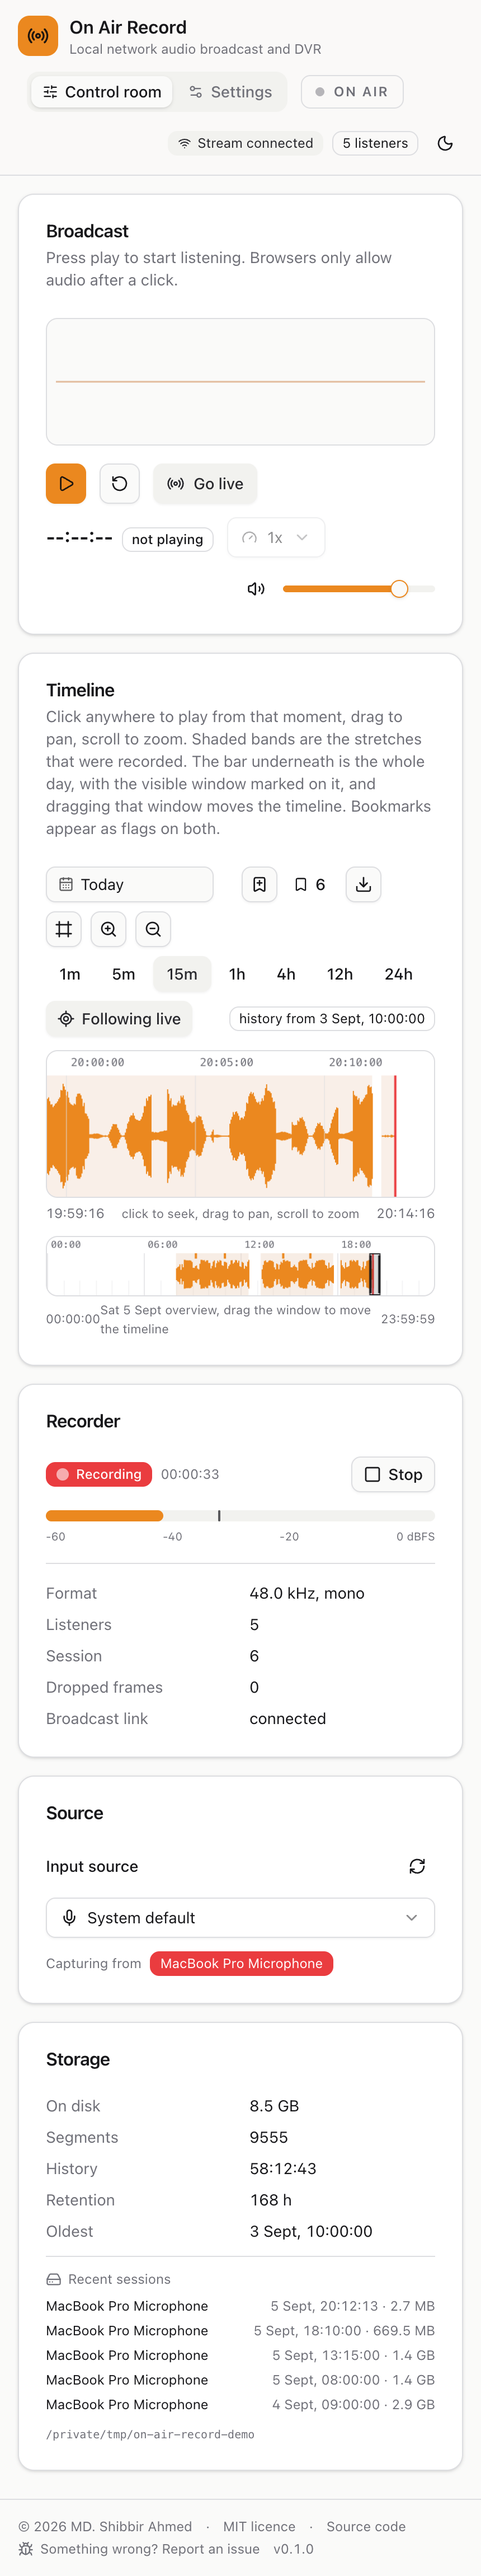
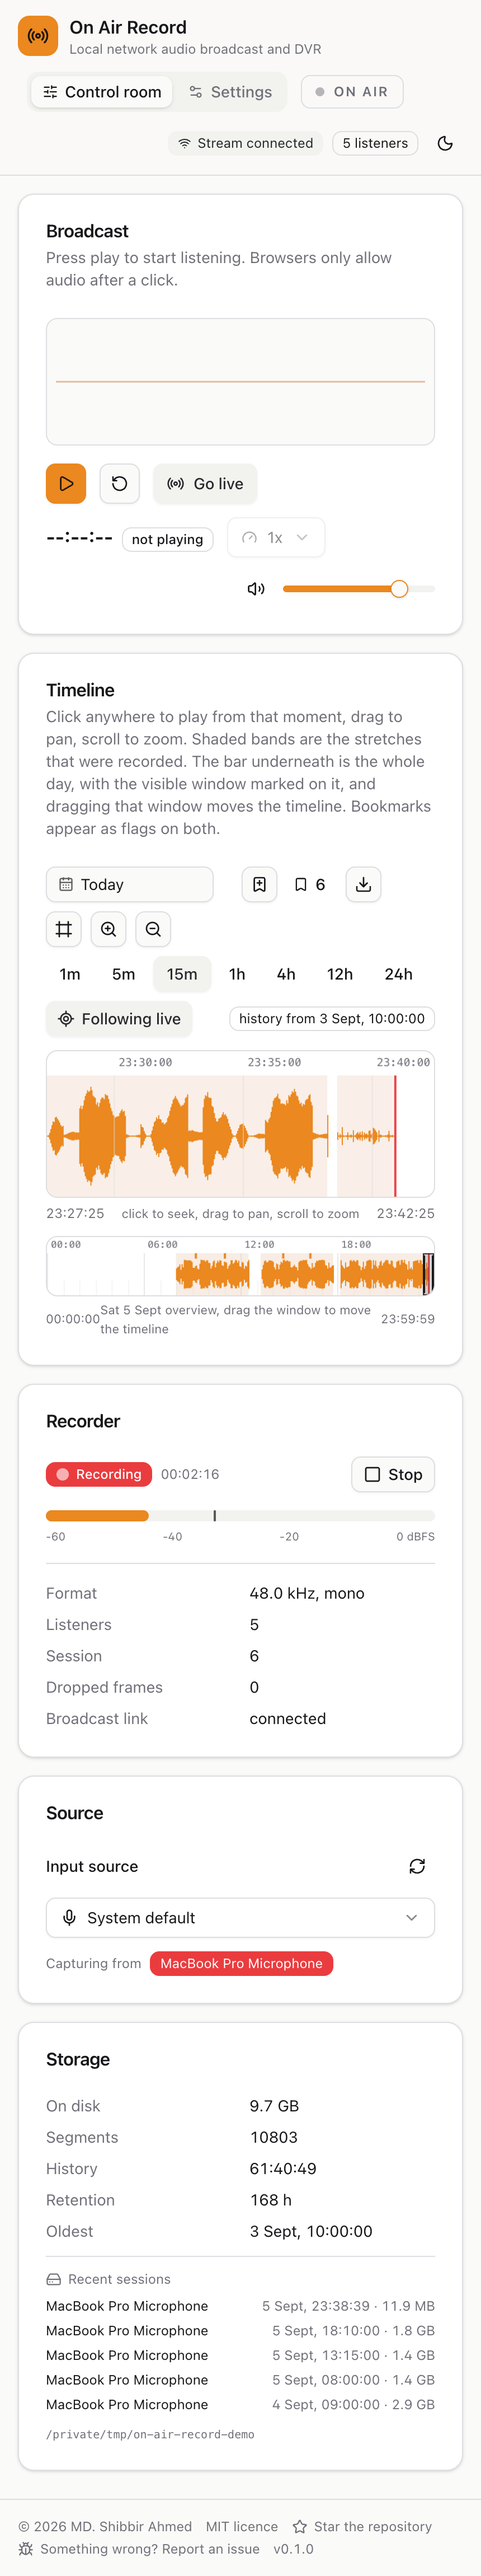
feat:[OAR-55] ask for a star in the footer instead of labelling the link source code
Same destination, better use of the space. "Source code" describes where the link goes; "Star the
repository" asks for the one thing a visitor can usefully do when they get there. A star icon carries it.

While recapturing the screenshots the longer line showed up a wrapping fault that was already there: the
middot separators are only meaningful while the row is on one line, and once it wraps on a phone one of
them dangles at the end of a line pointing at nothing. They are hidden below the sm breakpoint now, which
takes the phone footer from three ragged lines to two clean ones.

The five screenshots that show the footer were recaptured against a running instance, and the user guide's
description and alt text follow the new wording.

Changed region(s): [[0.0907, 0.404, 0.907, 0.5282], [0.514, 0.8079, 0.5442, 0.839], [0.3023, 0.5593, 0.3326, 0.5904]]

diff --git a/frontend/src/components/AppFooter.tsx b/frontend/src/components/AppFooter.tsx
@@ -5,7 +5,7 @@
  * bug report, and this is the page the reporter already has open.
  */
 
-import { Bug } from 'lucide-react';
+import { Bug, Star } from 'lucide-react';
 import { useEffect } from 'react';
 
 import { useStatusStore } from '@/store/useStatusStore';
@@ -40,12 +40,19 @@ export function AppFooter() {
           </a>
         </span>
 
-        <span aria-hidden="true">&middot;</span>
+        <span aria-hidden="true" className="hidden sm:inline">&middot;</span>
         <span>MIT licence</span>
 
-        <span aria-hidden="true">&middot;</span>
-        <a href={REPOSITORY_URL} target="_blank" rel="noreferrer noopener" className={LINK}>
-          Source code
+        <span aria-hidden="true" className="hidden sm:inline">&middot;</span>
+        {/* Still the repository link, but asking for the thing worth asking for. */}
+        <a
+          href={REPOSITORY_URL}
+          target="_blank"
+          rel="noreferrer noopener"
+          className={`${LINK} flex items-center gap-1.5`}
+        >
+          <Star className="size-3.5" />
+          Star the repository
         </a>
 
         <a

diff --git a/docs/USER_GUIDE.md b/docs/USER_GUIDE.md
@@ -96,7 +96,7 @@ The narrow right column is what you glance at occasionally:
 - **Source** is which microphone it is listening to.
 - **Storage** is how much disk has been used.
 
-Along the bottom of every page is a strip with the licence, a link to the source code, a link for
+Along the bottom of every page is a strip with the licence, a link to the project on GitHub, a link for
 reporting a problem, and the version number.
 
 ## The top bar
@@ -451,7 +451,7 @@ be exposed to the internet directly. Ask whoever administers it about a VPN.
 
 There is a link at the bottom of every page:
 
-![The footer strip, with the copyright, the licence, a source code link, a report an issue link and the version number](https://raw.githubusercontent.com/shibbirweb/on-air-record/master/docs/images/user-guide/footer.png)
+![The footer strip, with the copyright, the licence, a link to star the repository, a report an issue link and the version number](https://raw.githubusercontent.com/shibbirweb/on-air-record/master/docs/images/user-guide/footer.png)
 
 If something does not work, or the guide is wrong, open an issue:
 
